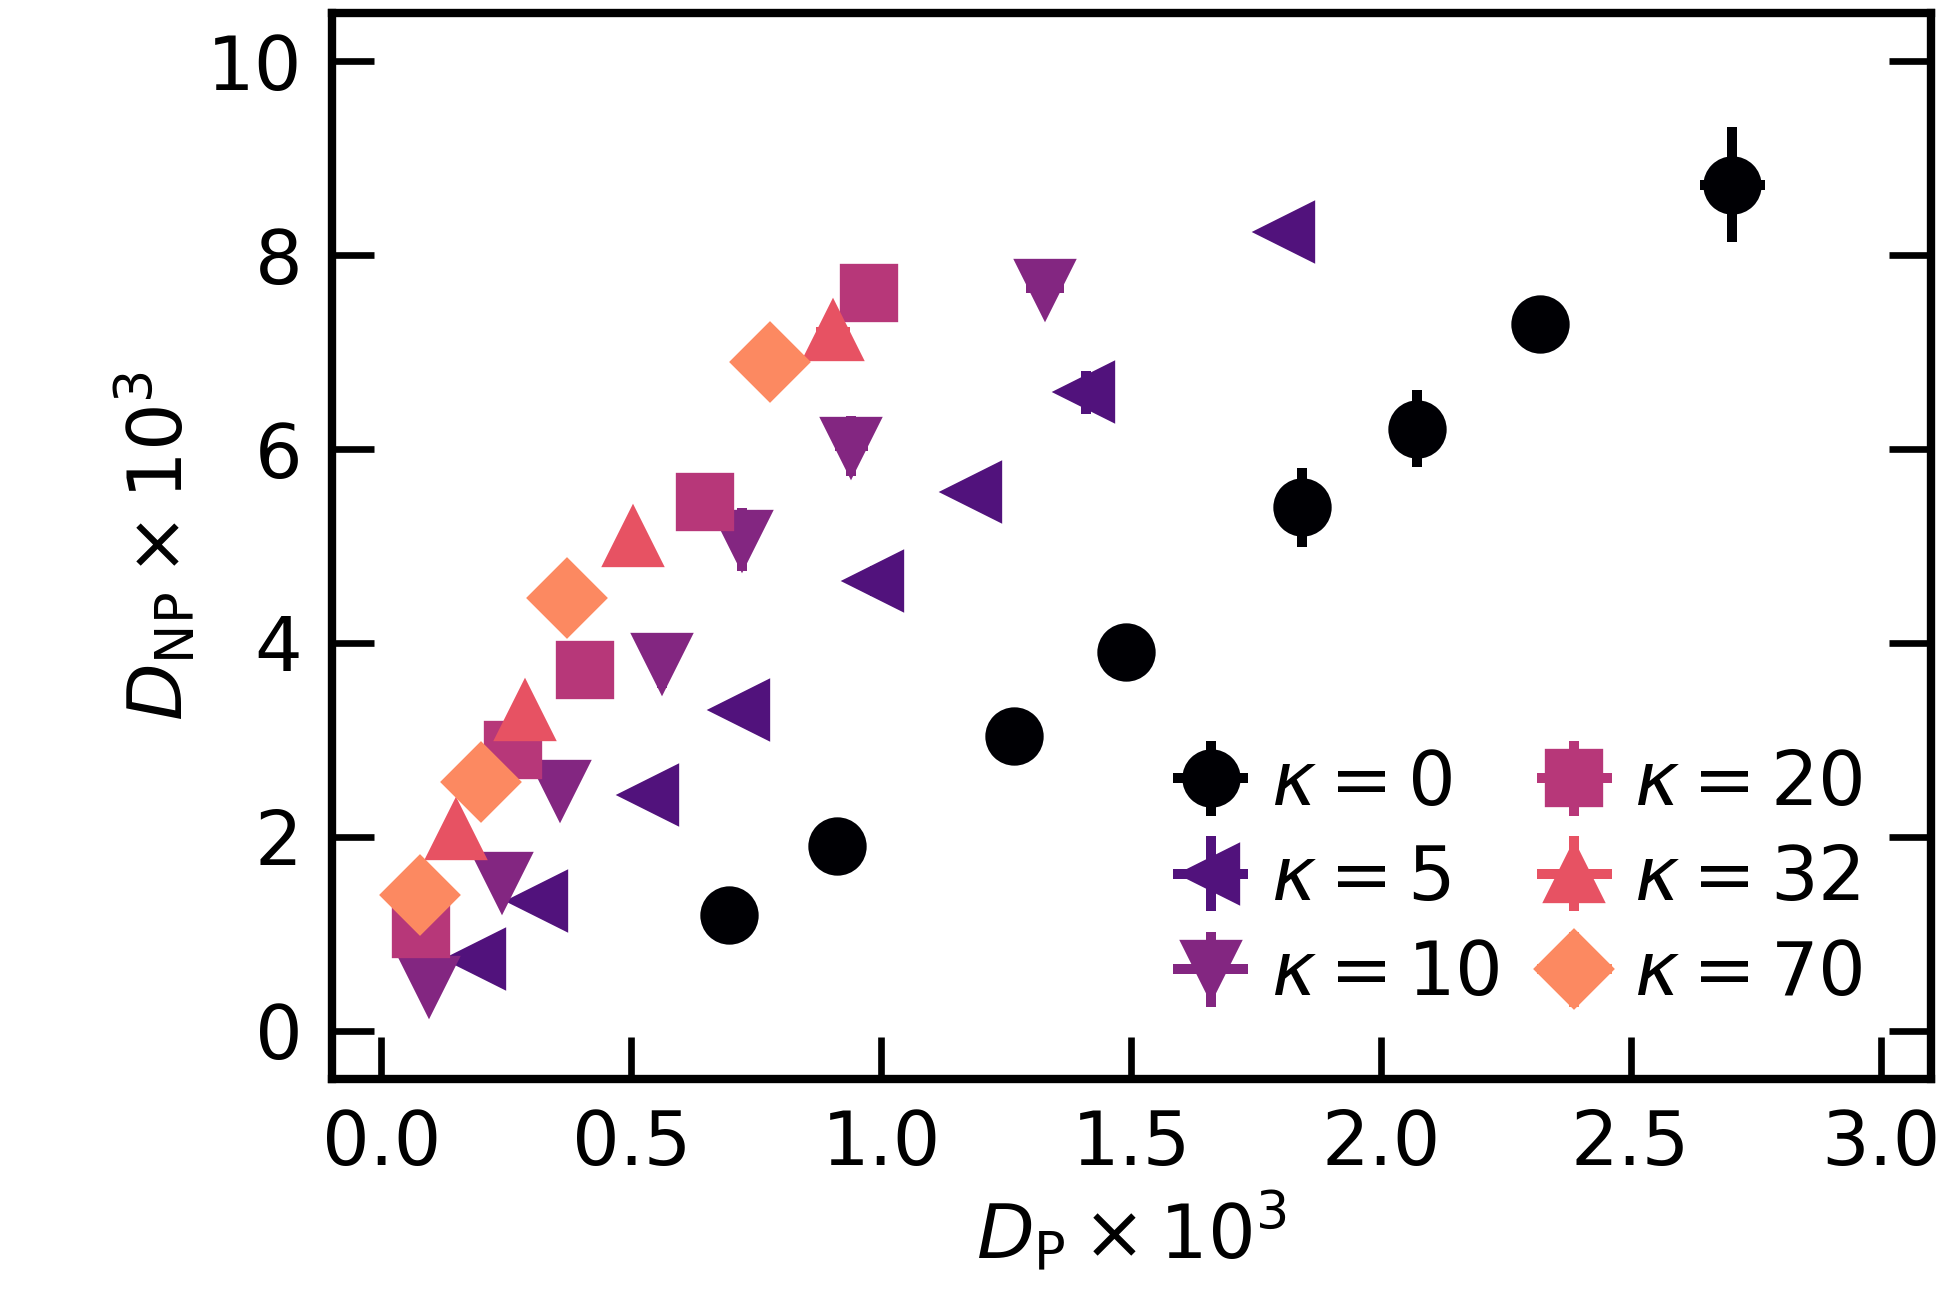
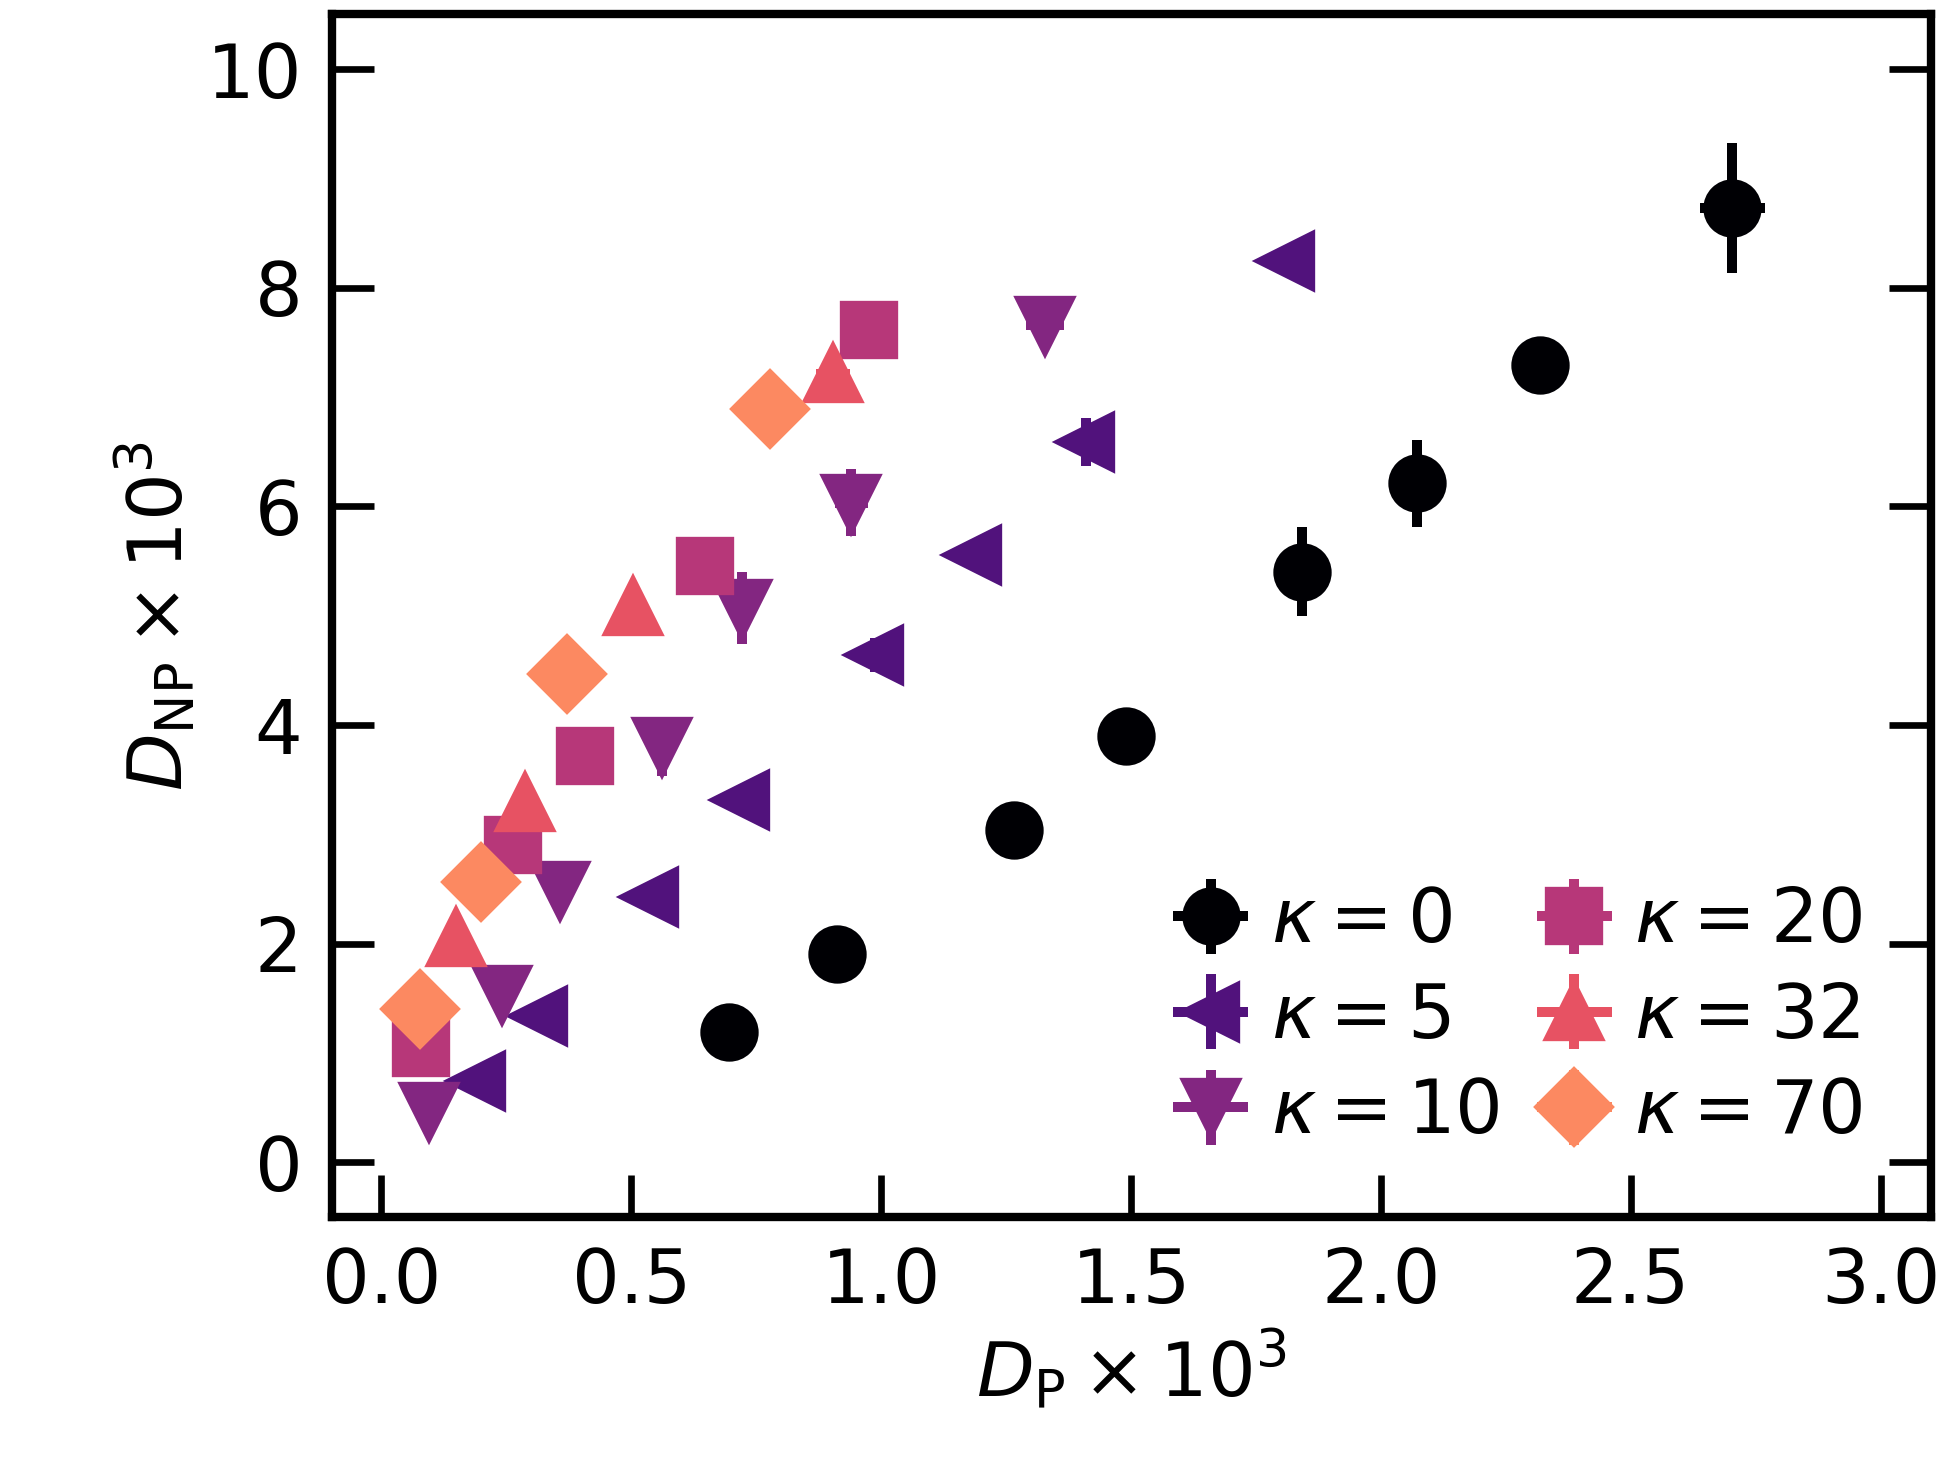
Change aspect ratio to 4:3

diff --git a/Diffusivity_scatter/plt_Dnp_vs_Dp.py b/Diffusivity_scatter/plt_Dnp_vs_Dp.py
@@ -14,7 +14,7 @@ from matplotlib.legend_handler import HandlerLine2D
 
 #---- define parameters for plotting like figure size, linesize, and markersize ----#
 fig_width = 3.25 # width in inches
-fig_height = fig_width/1.5 # height in inches
+fig_height = fig_width/1.33 # height in inches
 fig_size =  [fig_width,fig_height]
 
 params = {'backend': 'Agg',
